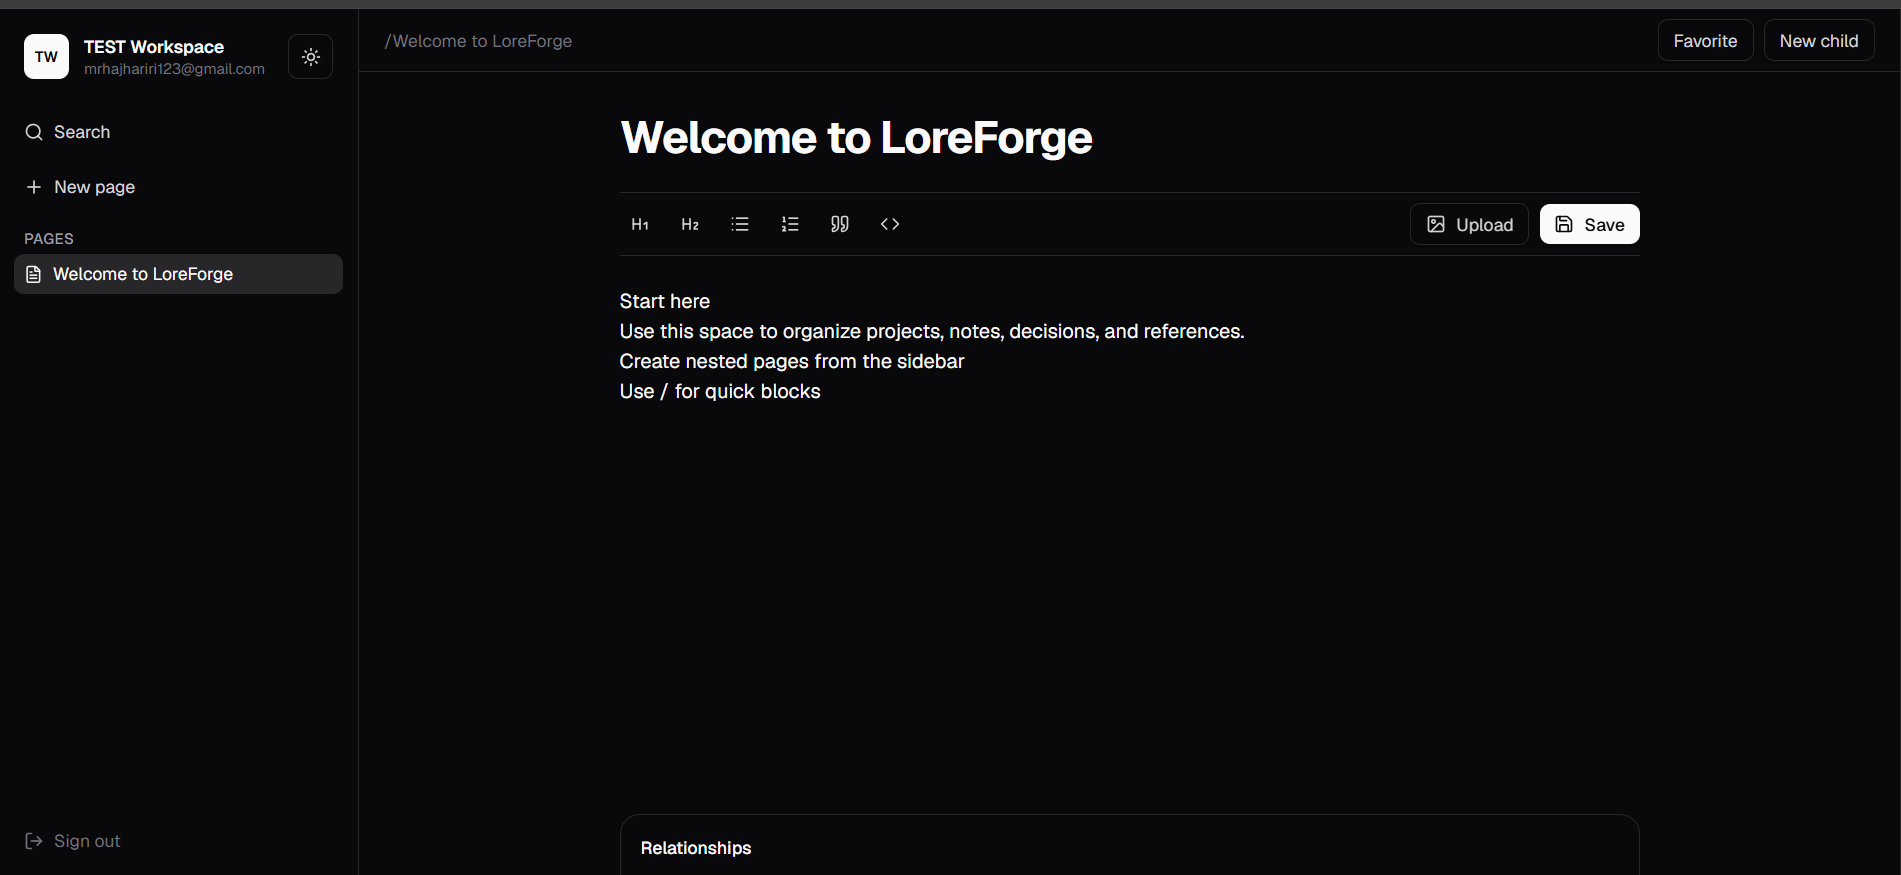
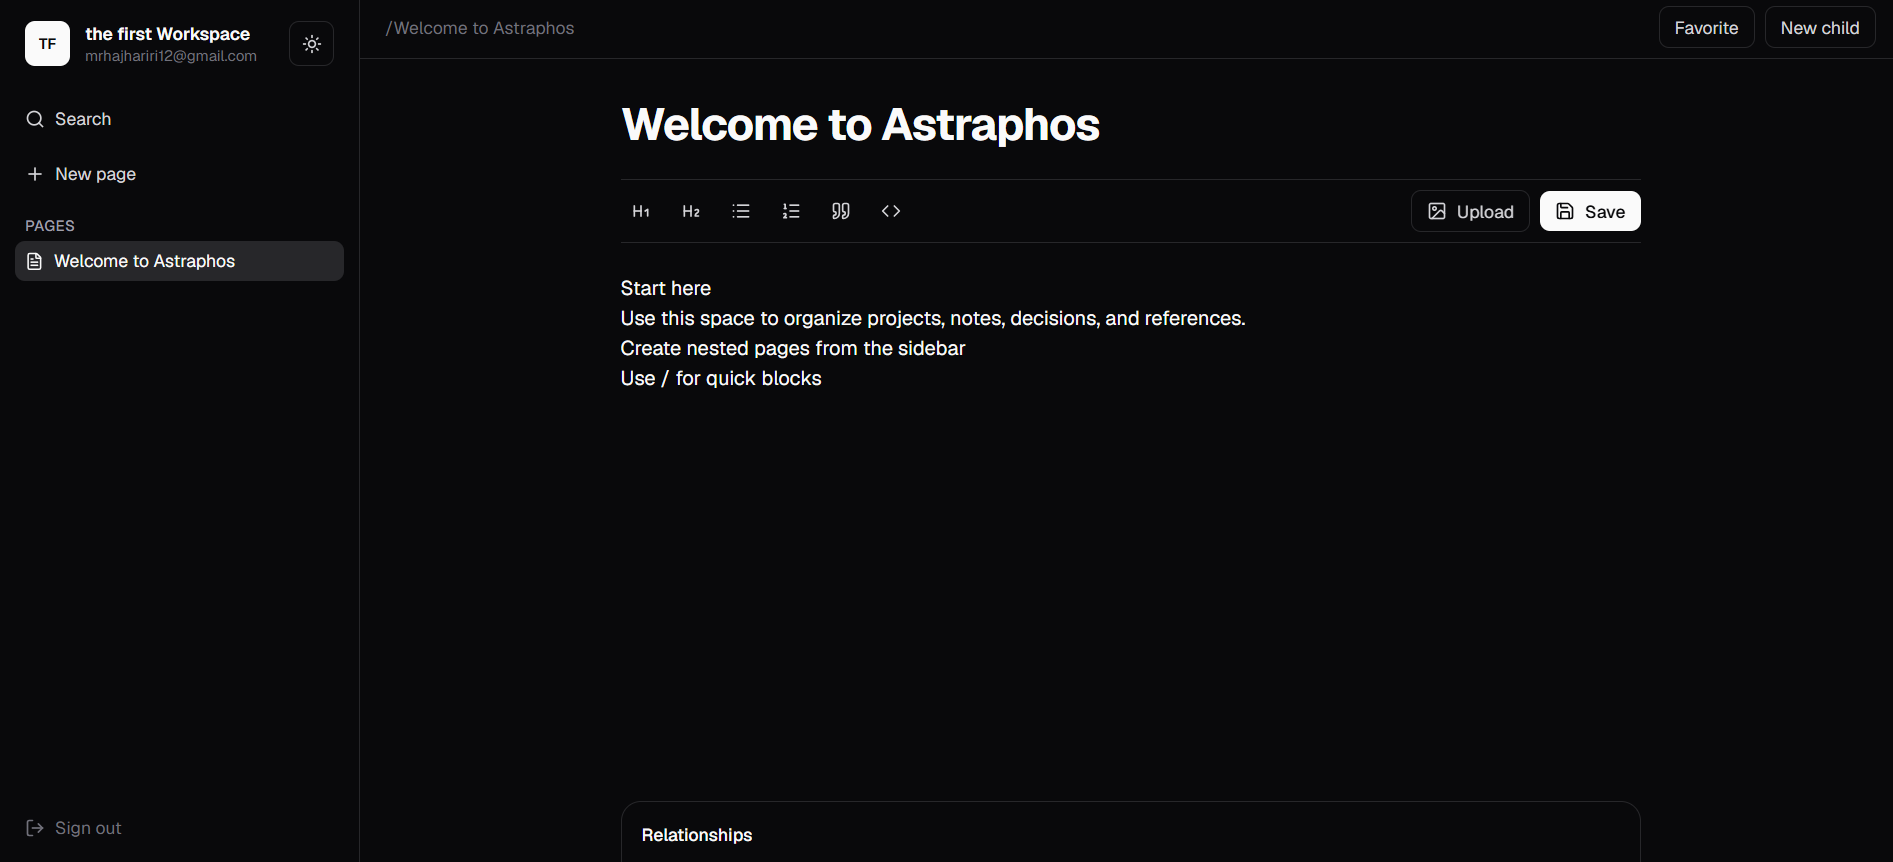
Add preview screenshot to README

diff --git a/README.md b/README.md
@@ -6,7 +6,9 @@ Astraphos is an open-source, AI-ready knowledge workspace for people who want to
 
 The MVP focuses on the core Notion-like foundation: authenticated workspaces, nested pages, rich-text editing, search, templates, relationships between pages, local uploads, PostgreSQL storage, and simple self-hosting.
 
+## Preview
 
+![Astraphos workspace preview](public/screenshots/astraphos-mvp.png)
 
 ## Status
 